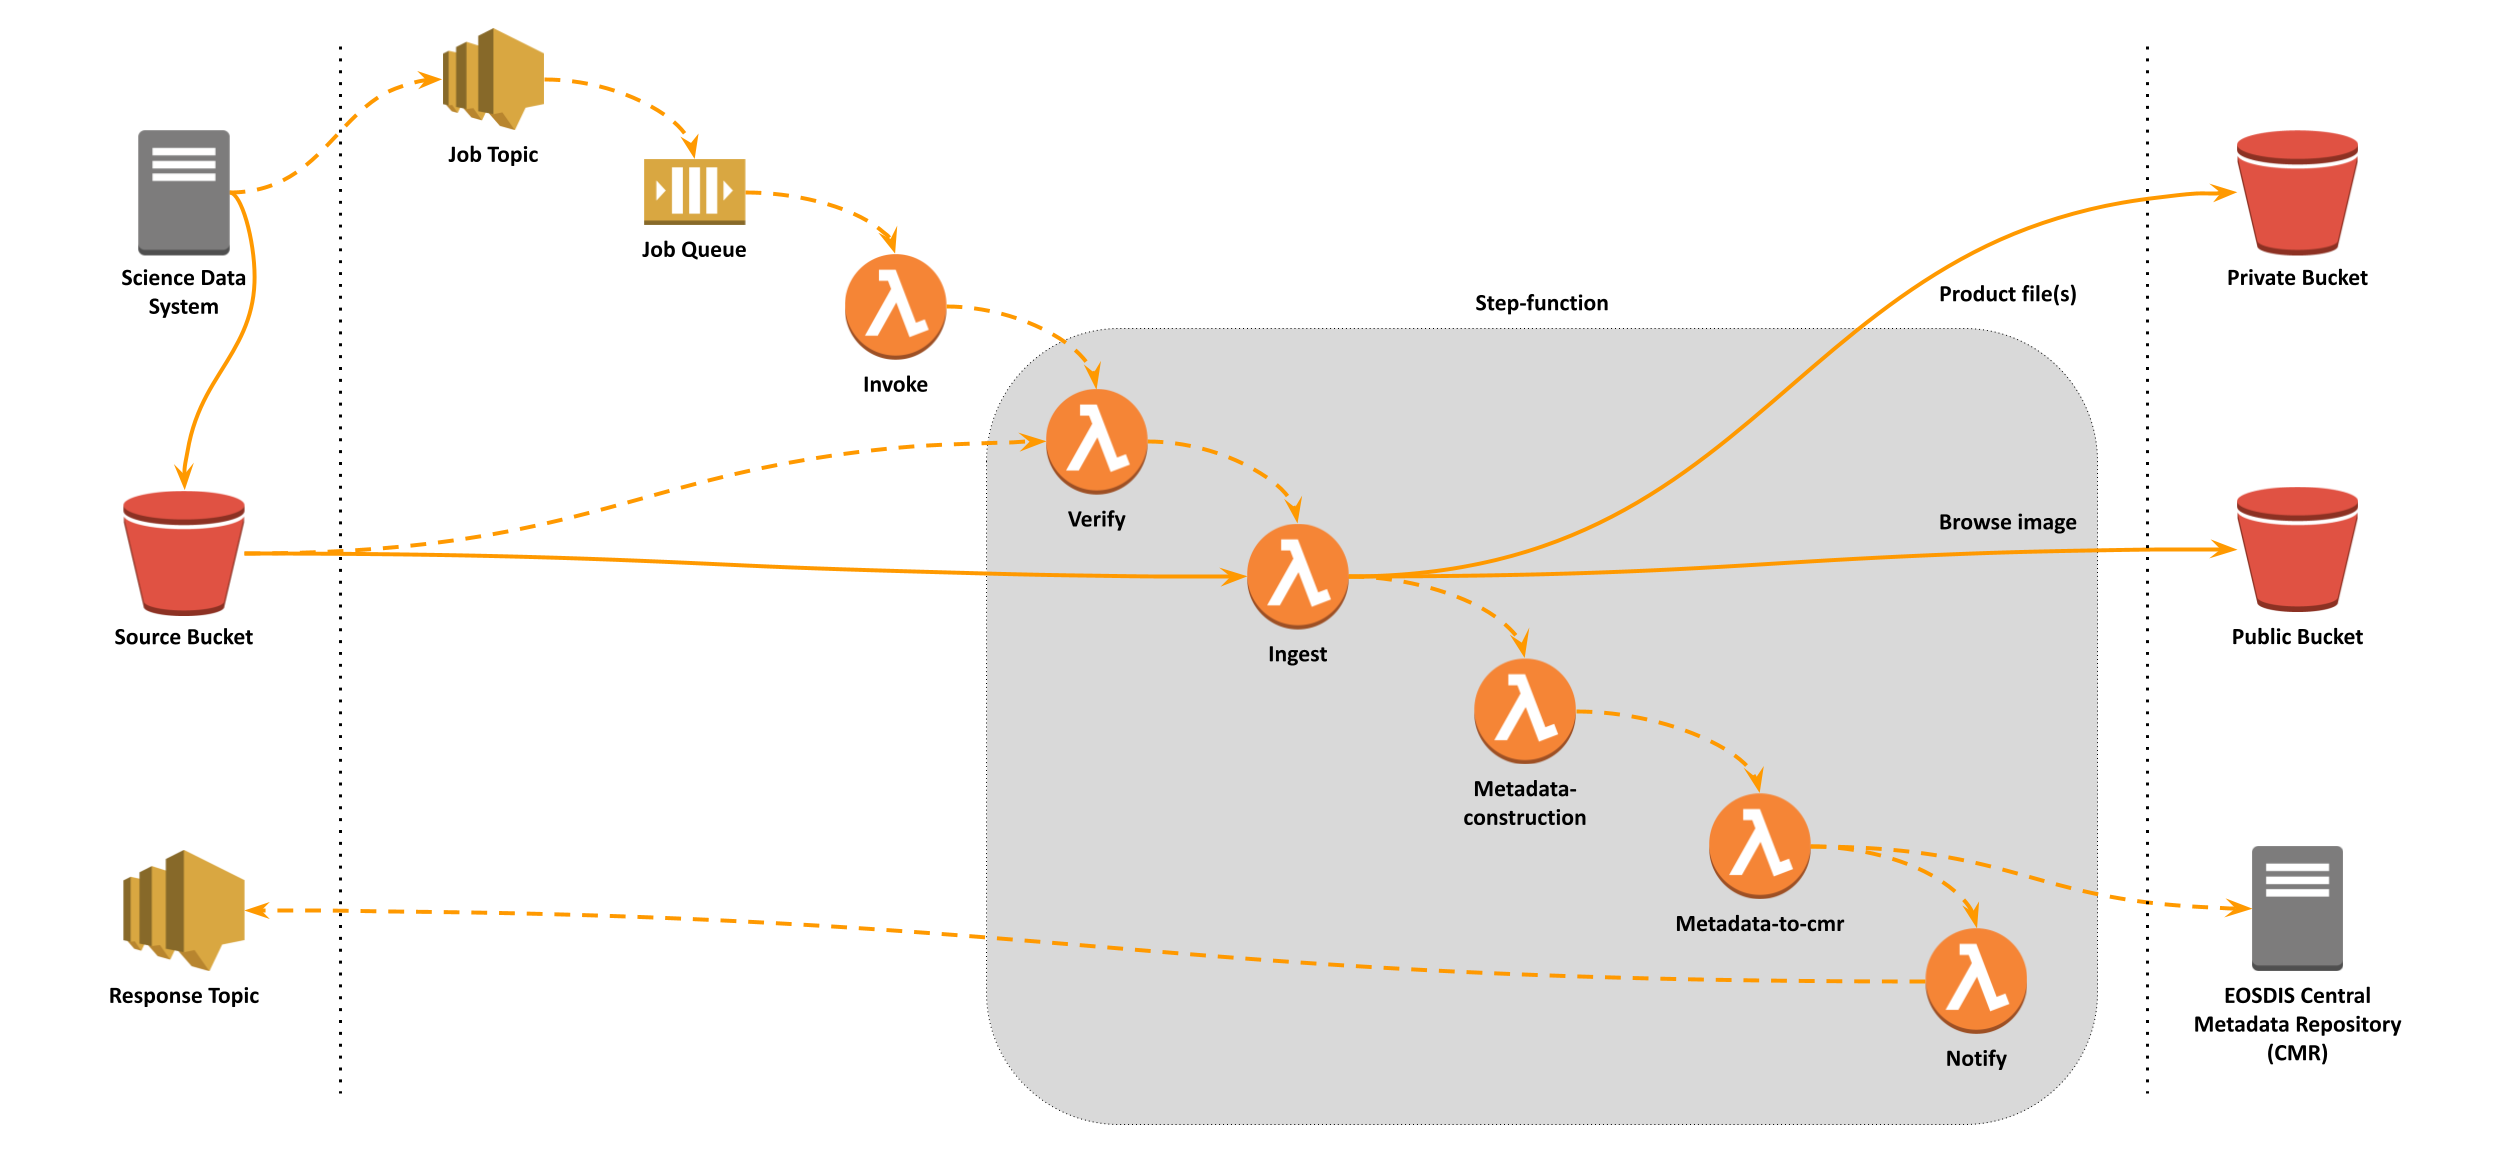
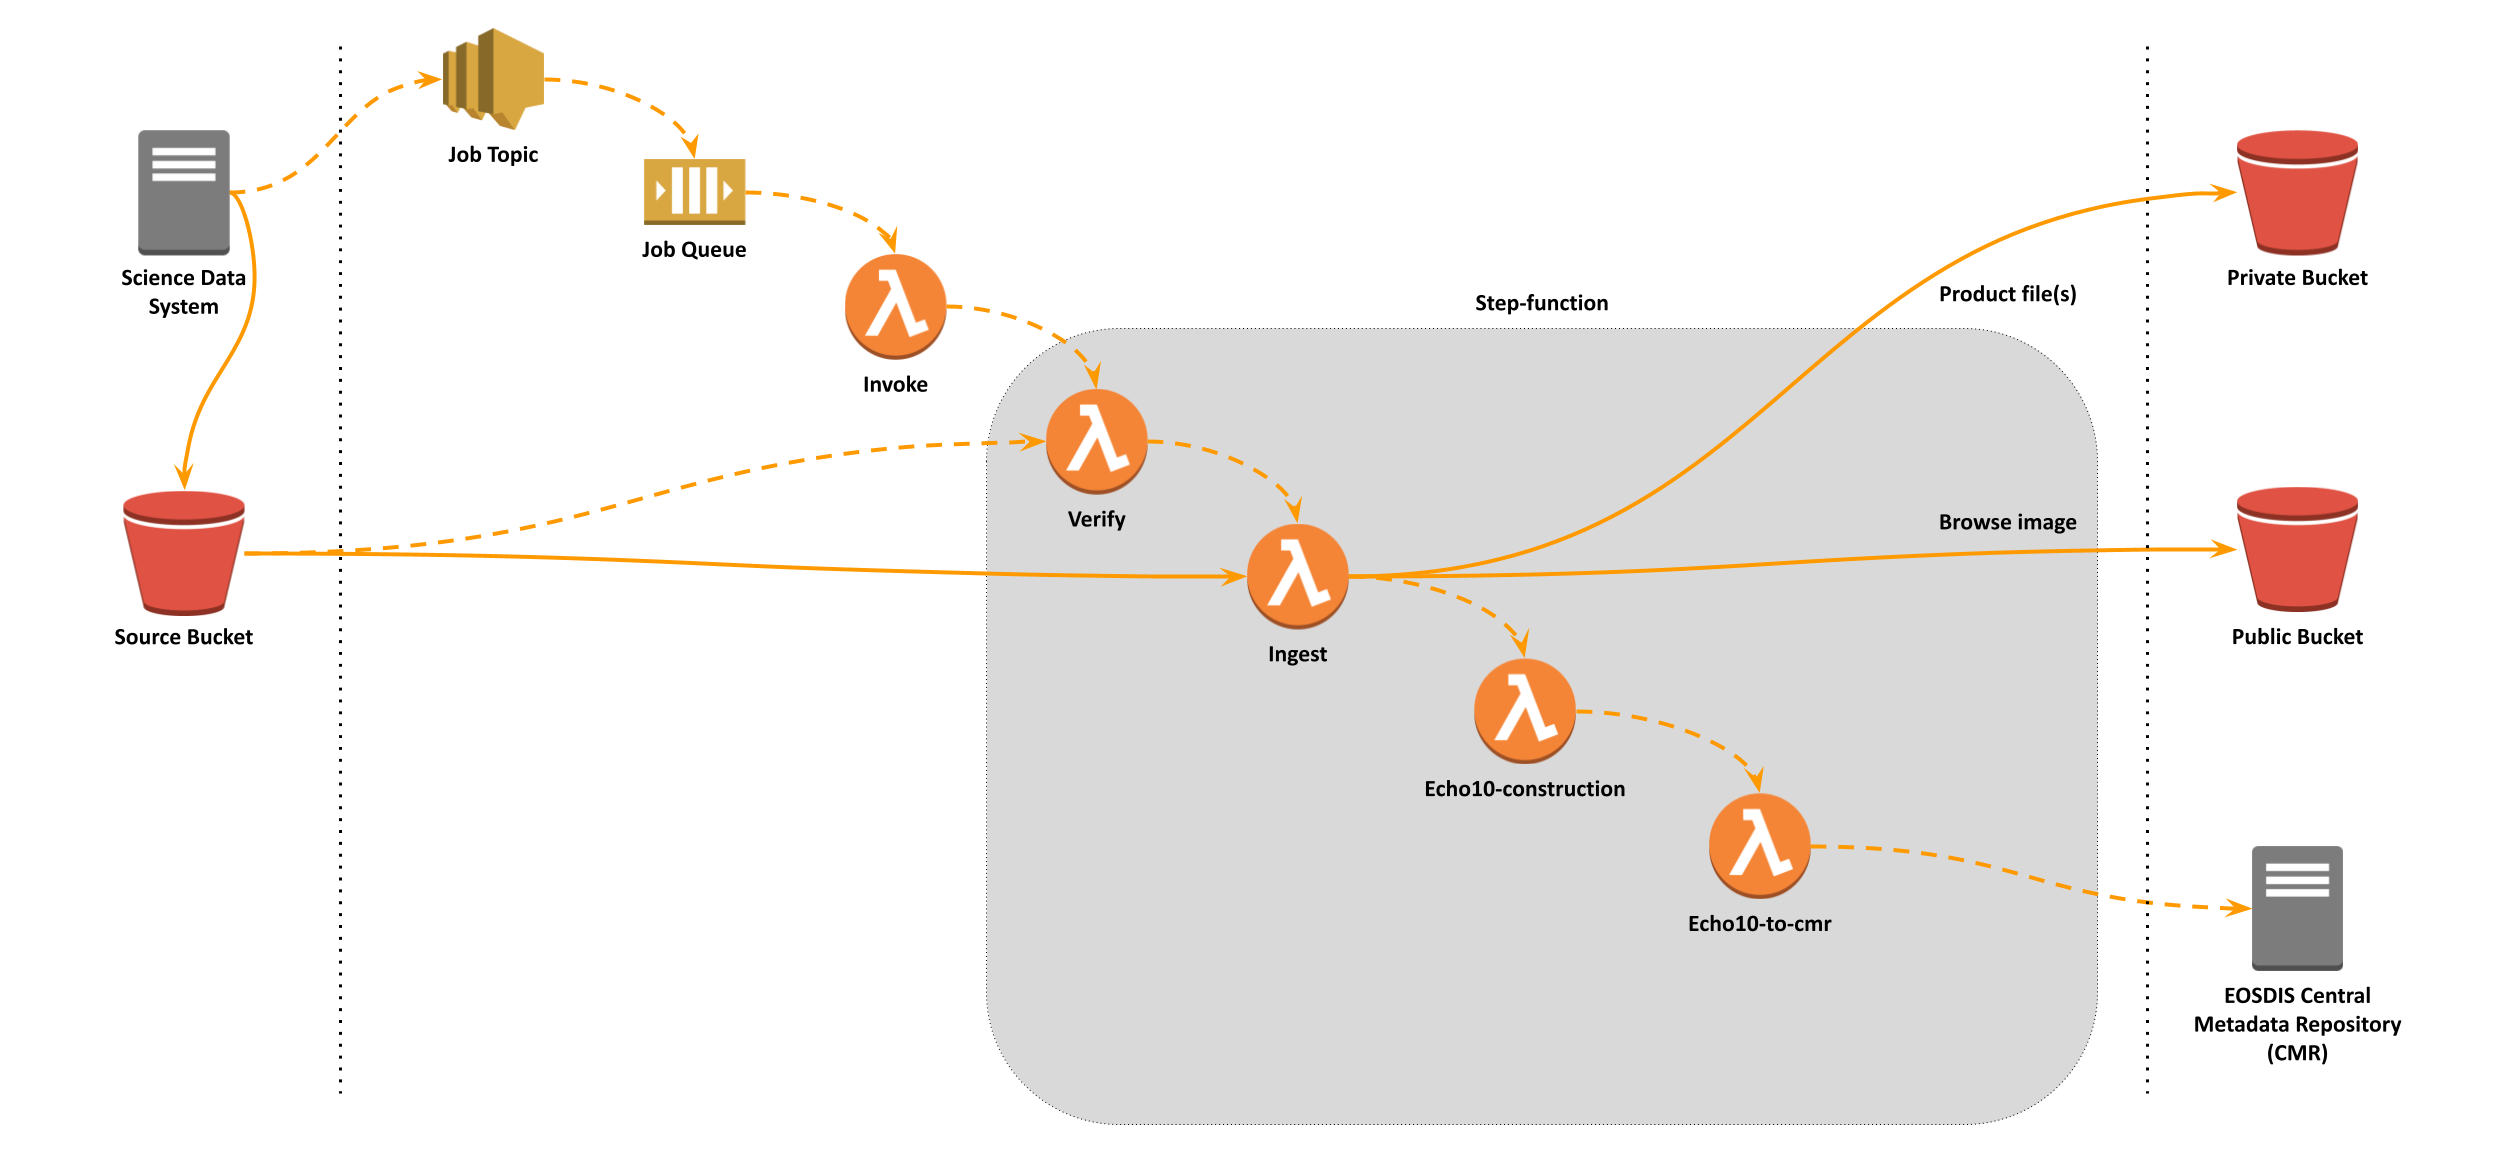
no longer send sns response to data provider

diff --git a/verify/src/verify.py b/verify/src/verify.py
@@ -11,19 +11,15 @@ log.setLevel('INFO')
 s3 = boto3.resource('s3')
 
 
-class INVALID_MESSAGE(Exception):
+class InvalidMessage(Exception):
     pass
 
 
-class MISSING_FILE(Exception):
+class MissingFile(Exception):
     pass
 
 
-class INVALID_METADATA(Exception):
-    pass
-
-
-class INVALID_TOPIC(Exception):
+class InvalidMetadata(Exception):
     pass
 
 
@@ -36,8 +32,8 @@ def get_file_content_from_s3(bucket, key):
 
 def get_json_from_file(filename):
     with open(filename) as f:
-        content = f.read()
-    return json.loads(content)
+        content = json.load(f)
+    return content
 
 
 def validate_s3_object(obj):
@@ -45,18 +41,18 @@ def validate_s3_object(obj):
         s3.Object(obj['Bucket'], obj['Key']).load()
     except botocore.exceptions.ClientError as e:
         if e.response['Error']['Code'] in ['403', '404']:
-            raise MISSING_FILE(str(obj) + ' ' + str(e))
+            raise MissingFile(str(obj) + ' ' + str(e))
         raise
 
 
 def validate_message(message):
     if 'MessageError' in message:
-        raise INVALID_MESSAGE(message['MessageError'])
+        raise InvalidMessage(message['MessageError'])
     message_schema = get_json_from_file('message_schema.json')
     try:
         jsonschema.validate(message, message_schema)
     except jsonschema.exceptions.ValidationError as e:
-        raise INVALID_MESSAGE(e.message)
+        raise InvalidMessage(e.message)
 
 
 def validate_metadata(obj):
@@ -66,36 +62,16 @@ def validate_metadata(obj):
     try:
         metadata = json.loads(metadata)
     except json.decoder.JSONDecodeError as e:
-        raise INVALID_METADATA(str(e))
+        raise InvalidMetadata(str(e))
 
     try:
         jsonschema.validate(metadata, metadata_schema)
     except jsonschema.exceptions.ValidationError as e:
-        raise INVALID_METADATA(e.message)
-
-
-def json_error(error):
-    json_messages = [
-        'Invalid parameter: Message Structure - JSON message body failed to parse',
-        'Invalid parameter: Message Structure - No default entry in JSON message body',
-    ]
-    return error['Code'] == 'InvalidParameter' and error['Message'] in json_messages
-
-
-def validate_topic(topic):
-    sns = boto3.client('sns', region_name=topic['Region'])
-    try:
-        sns.publish(TopicArn=topic['Arn'], Message='invalidMessage', MessageStructure='json')
-    except botocore.exceptions.ClientError as e:
-        if not json_error(e.response['Error']):
-            raise INVALID_TOPIC(str(e))
+        raise InvalidMetadata(e.message)
 
 
 def verify(message):
     validate_message(message)
-
-    if 'ResponseTopic' in message:
-        validate_topic(message['ResponseTopic'])
 
     validate_s3_object(message['Metadata'])
     validate_s3_object(message['Browse'])

diff --git a/README.md b/README.md
@@ -18,7 +18,6 @@ data.
 * **metadata-construction:** A Lambda function that generates a CMR-compliant metadata file for a particular product.
 * **cmr-token** A Lambda function that generates an access token for the CMR ingest API.
 * **metadata-to-cmr:** A scheduled Lambda function that submits metadata files to CMR.
-* **notify:** A Lambda function that sends ingest success/failure messages to the SNS response topic.
 
 # Top Level Inputs and Outputs
 
@@ -41,7 +40,6 @@ Runtime inputs consist of the following staged files:
 
 ### Product metadata reported to CmrGranuleUrl with these Collection Ids and Granule URs:
 * Sentinel-1 All Interferometric Products (BETA) \<product-name\>-All
-* Success/failure message sent to DefaultResponseTopicArn
 
 # Integration testing
 

diff --git a/CHANGELOG.md b/CHANGELOG.md
@@ -6,6 +6,14 @@ The format is based on [Keep a Changelog](https://keepachangelog.com/en/1.0.0/),
 and this project adheres to [PEP 440](https://www.python.org/dev/peps/pep-0440/)
 and uses [Semantic Versioning](https://semver.org/spec/v2.0.0.html).
 
+## [3.0.0]
+### Removed
+- SNS success/failure responses are no longer sent to the data provider.
+    - Removed the `Notify` step of the ingest workflow
+    - Removed the `DefaultResponseTopicRegion` and `DefaultResponseTopicArn` cloudformation parameters
+    - The optional `ResponseTopic` parameter in publish messages is still accepted but will be ignored.
+    - The `DeliveryTime` parameter in publish messages is now optional and unused.
+
 ## [2.0.2]
 ### Added
 - Added `mypy` to static analysis workflow.
